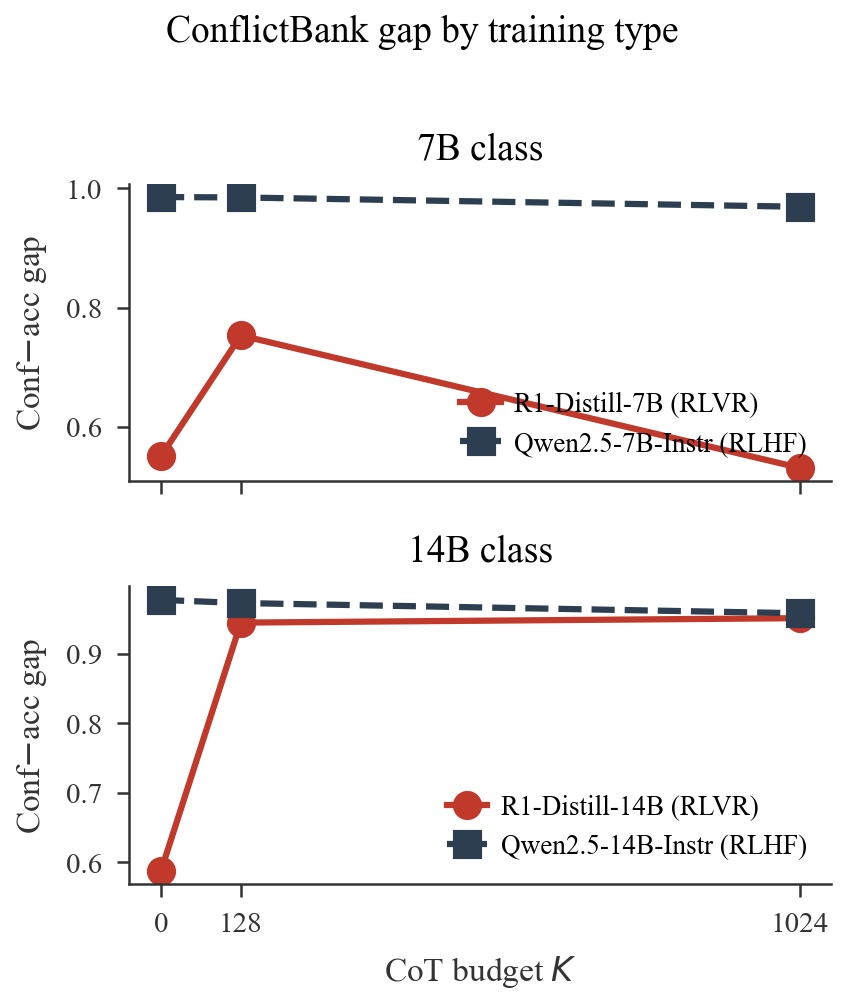
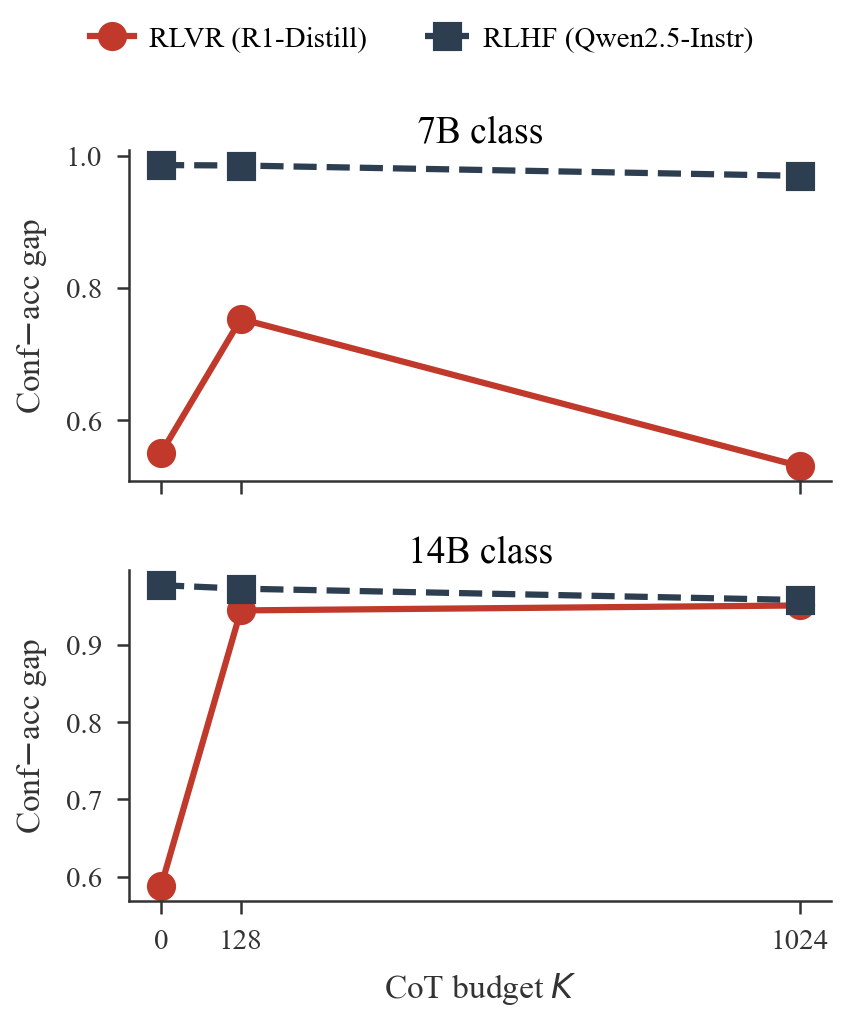
Move fig 5b legend to top, raise fig 2b/3b, sharpen abstract close
Figure 5b (training_contrast):
- Regenerated via make_figures.py: removed suptitle, removed per-axis legends, added a single fig.legend at the top center showing the two training-recipe lines outside the plot area. The previous legend was overlapping the data lines on both subplots; now it sits above the plots with no overlap.
- Updated experiments.tex to remove the trim={0 0 0 60pt} (no longer needed since title is gone) and reduced vspace to -6pt for clean top-alignment with table.

Figure 2b (named_comparators):
- vspace bumped from -55pt to -72pt so the chart top now sits at the same vertical position as 2a's table top.

Figure 3b (kl_gap):
- minipage alignment changed from default to [t]; added vspace{-30pt} so the right panel now sits higher, aligned with the left per-model panel's top instead of being centered low.

Abstract close:
- Replaced "Both interventions ship as one inference-time line over a standard RAG decoder." with a more memorable closing that frames the results as the first principled answer to which arbitration rule a deployed RAG stack should use, with both interventions shipping as a single inference-time line and no retraining or architecture change.

Body still 9 pages, total 67 pages.

diff --git a/paper/figs/make_figures.py b/paper/figs/make_figures.py
@@ -616,28 +616,25 @@ def figure_training_contrast() -> None:
     rlhf_7b = [0.9856, 0.9849, 0.9693]
 
     fig, axes = plt.subplots(2, 1, figsize=(3.0, 3.5), sharex=True)
-    axes[0].plot(cot, rlvr_7b, "-", marker="o", color=PALETTE["deepseek"],
-                 label="R1-Distill-7B (RLVR)")
-    axes[0].plot(cot, rlhf_7b, "--", marker="s", color=PALETTE["qwen"],
-                 label="Qwen2.5-7B-Instr (RLHF)")
-    axes[0].set_title("7B class", fontsize=9)
+    line_rlvr_7, = axes[0].plot(cot, rlvr_7b, "-", marker="o", color=PALETTE["deepseek"],
+                                label="RLVR (R1-Distill)")
+    line_rlhf_7, = axes[0].plot(cot, rlhf_7b, "--", marker="s", color=PALETTE["qwen"],
+                                label="RLHF (Qwen2.5-Instr)")
+    axes[0].set_title("7B class", fontsize=9, pad=2)
     axes[0].set_ylabel("Conf$-$acc gap", fontsize=8)
-    axes[0].legend(fontsize=6.5, loc="lower right")
     axes[0].tick_params(labelsize=7)
 
-    axes[1].plot(cot, rlvr_14b, "-", marker="o", color=PALETTE["deepseek"],
-                 label="R1-Distill-14B (RLVR)")
-    axes[1].plot(cot, rlhf_14b, "--", marker="s", color=PALETTE["qwen"],
-                 label="Qwen2.5-14B-Instr (RLHF)")
-    axes[1].set_title("14B class", fontsize=9)
+    axes[1].plot(cot, rlvr_14b, "-", marker="o", color=PALETTE["deepseek"])
+    axes[1].plot(cot, rlhf_14b, "--", marker="s", color=PALETTE["qwen"])
+    axes[1].set_title("14B class", fontsize=9, pad=2)
     axes[1].set_xlabel("CoT budget $K$", fontsize=8)
     axes[1].set_ylabel("Conf$-$acc gap", fontsize=8)
-    axes[1].legend(fontsize=6.5, loc="lower right")
     axes[1].set_xticks(cot)
     axes[1].tick_params(labelsize=7)
 
-    fig.suptitle("ConflictBank gap by training type", fontsize=9, y=0.97)
-    fig.tight_layout(rect=(0, 0, 1, 0.97))
+    fig.legend(handles=[line_rlvr_7, line_rlhf_7], loc="upper center",
+               ncol=2, fontsize=7, frameon=False, bbox_to_anchor=(0.5, 1.0))
+    fig.tight_layout(rect=(0, 0, 1, 0.93))
     save_fig(fig, "fig_training_contrast")
     plt.close(fig)
 

diff --git a/paper/sections/experiments.tex b/paper/sections/experiments.tex
@@ -119,7 +119,7 @@ test, fixed-$\lambda$ e-value).  Bayes proxy mean regret $-0.172$.}
 \end{subfigure}\hspace{0.015\linewidth}%
 \begin{subfigure}[t]{0.32\linewidth}
 \centering
-\vspace{-55pt}
+\vspace{-72pt}
 \includegraphics[width=\linewidth]{figs/fig_named_comparators.pdf}
 \subcaption{Per-baseline regret (symlog); same ordering visualized.}
 \label{fig:named-comparators}
@@ -134,10 +134,11 @@ The residual non-uniformity in per-benchmark wins concentrates entirely in PopQA
 
 \begin{figure}[H]
 \centering
-\begin{minipage}{0.50\linewidth}
+\begin{minipage}[t]{0.50\linewidth}
   \includegraphics[width=\linewidth]{figs/fig_per_model.pdf}
 \end{minipage}\hfill
-\begin{minipage}{0.38\linewidth}
+\begin{minipage}[t]{0.38\linewidth}
+  \vspace{-30pt}
   \includegraphics[width=\linewidth]{figs/fig_kl_gap.pdf}
 \end{minipage}
 \caption{\textbf{Per-model and per-benchmark structure.}
@@ -226,8 +227,8 @@ Llama-70B, Qwen-14B, Mistral, Gemma & \multicolumn{3}{l}{gaps $\in[-0.042,\,+0.0
 \end{subfigure}\hfill
 \begin{subfigure}[t]{0.32\linewidth}
 \centering
-\vspace{-50pt}
-\includegraphics[width=\linewidth, trim={0 0 0 60pt}, clip]{figs/fig_training_contrast.pdf}
+\vspace{-6pt}
+\includegraphics[width=\linewidth]{figs/fig_training_contrast.pdf}
 \subcaption{Trace-level RLVR vs.\ RLHF gap by $K$.}
 \label{fig:training-contrast}
 \end{subfigure}

diff --git a/paper/main.tex b/paper/main.tex
@@ -110,7 +110,7 @@
 \maketitle
 
 \begin{abstract}
-A retrieval-augmented LLM has to arbitrate three voices that often disagree: a parametric prior fixed at training, a retrieved passage, and the model's own chain of thought. Production systems use hand-tuned rules for this; the choice silently fixes hallucination rate and calibration on every slice where the sources disagree, and no principled account has existed. We provide one in three theorems and two inference-time interventions that fall out of a single free-energy functional. \textbf{(CT1)} Inside the log-linear family the Bayes-optimal combiner is the reliability-weighted geometric mixture $\hat p_{w^\star}\!\propto\!p_\theta^{1-w^\star}\,p_{\ctx}^{w^\star}$ with $w^\star\!=\!\E[r\mid q,c]$. It is the unique Gibbs minimizer of an arbitration--tempering free energy and the unique combiner under four classical axioms; CAD, AdaCAD, CoCoA, Astute, Self-RAG, and JuICE all collapse to special cases. The same statement carries a TV-perturbation envelope on regret. \textbf{(CT2)} The chain of thought reads as an endogenous generalized-Bayes update on the same functional. Its rate of convergence to the Berk--Nash fixed point lives inside an $\eta$-linear sandwich, and the safe learning rate shrinks under conflict on the stable-answer subset. \textbf{(CT3)} When the post-trace distribution overshoots, the Brier improvement under $\eta$-tempering is closed-form, $\Delta\mathrm{Brier}(\eta^\star)\!=\!(1\!-\!\eta^\star)^{2}V_{\mathrm{post}}\!+\!O((1\!-\!\eta^\star)^{3})$, giving safe-Bayes an operational reading of when ordinary temperature scaling is justified. The Bayes rule beats the strongest heuristic by $+0.083$ in regret on $23/25$ cells (e-value $2806$); powered $n\!=\!210$ head-to-heads against CoCoA, Astute~RAG, and Self-RAG land at $+0.043 / +0.032 / +0.022$ regret, every CI strictly above zero. The CT2 spectral diagnostic predicts trace decay $\TV(p_t,p_K)$ within $\pm 0.07$ across $12$ cells over $3$ model families (pooled $r\!=\!0.997$). On the worst standalone cell (R1-14B / ConflictBank / $K\!=\!1024$), $\eta$-tempering drops Brier from $0.903$ to $0.505$ and lifts accuracy from $0.037$ to $0.440$. A matched-base contrast (DPO vs.\ GRPO at $8$B, $+0.344$ ECE gap) gives causal evidence the failure mode is RL-induced. On the parallel RLCR-trained $8$B cell, stacking $\eta$-tempering on top reaches accuracy $0.531$ and ECE $0.431$. Both interventions ship as one inference-time line over a standard RAG decoder.
+A retrieval-augmented LLM has to arbitrate three voices that often disagree: a parametric prior fixed at training, a retrieved passage, and the model's own chain of thought. Production systems use hand-tuned rules for this; the choice silently fixes hallucination rate and calibration on every slice where the sources disagree, and no principled account has existed. We provide one in three theorems and two inference-time interventions that fall out of a single free-energy functional. \textbf{(CT1)} Inside the log-linear family the Bayes-optimal combiner is the reliability-weighted geometric mixture $\hat p_{w^\star}\!\propto\!p_\theta^{1-w^\star}\,p_{\ctx}^{w^\star}$ with $w^\star\!=\!\E[r\mid q,c]$. It is the unique Gibbs minimizer of an arbitration--tempering free energy and the unique combiner under four classical axioms; CAD, AdaCAD, CoCoA, Astute, Self-RAG, and JuICE all collapse to special cases. The same statement carries a TV-perturbation envelope on regret. \textbf{(CT2)} The chain of thought reads as an endogenous generalized-Bayes update on the same functional. Its rate of convergence to the Berk--Nash fixed point lives inside an $\eta$-linear sandwich, and the safe learning rate shrinks under conflict on the stable-answer subset. \textbf{(CT3)} When the post-trace distribution overshoots, the Brier improvement under $\eta$-tempering is closed-form, $\Delta\mathrm{Brier}(\eta^\star)\!=\!(1\!-\!\eta^\star)^{2}V_{\mathrm{post}}\!+\!O((1\!-\!\eta^\star)^{3})$, giving safe-Bayes an operational reading of when ordinary temperature scaling is justified. The Bayes rule beats the strongest heuristic by $+0.083$ in regret on $23/25$ cells (e-value $2806$); powered $n\!=\!210$ head-to-heads against CoCoA, Astute~RAG, and Self-RAG land at $+0.043 / +0.032 / +0.022$ regret, every CI strictly above zero. The CT2 spectral diagnostic predicts trace decay $\TV(p_t,p_K)$ within $\pm 0.07$ across $12$ cells over $3$ model families (pooled $r\!=\!0.997$). On the worst standalone cell (R1-14B / ConflictBank / $K\!=\!1024$), $\eta$-tempering drops Brier from $0.903$ to $0.505$ and lifts accuracy from $0.037$ to $0.440$. A matched-base contrast (DPO vs.\ GRPO at $8$B, $+0.344$ ECE gap) gives causal evidence the failure mode is RL-induced. On the parallel RLCR-trained $8$B cell, stacking $\eta$-tempering on top reaches accuracy $0.531$ and ECE $0.431$. Together, these results give the first principled answer to which arbitration rule a deployed RAG stack should use, and both interventions ship as a single inference-time line over a standard decoder, with no retraining and no architecture change.
 \end{abstract}
 
 \input{sections/introduction}